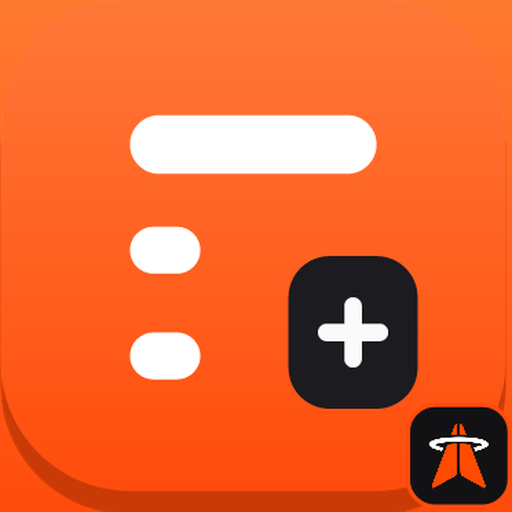
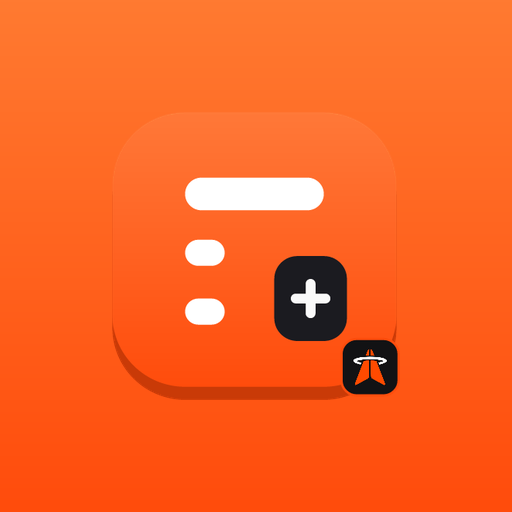
fix: centraliza icone com padding uniforme e protege marca Blessing

Changed region(s): [[0.2188, 0.5, 0.8438, 0.8125], [0.25, 0.2188, 0.75, 0.5625], [0.0, 0.75, 1.0, 1.0]]

diff --git a/index.html b/index.html
@@ -5,8 +5,8 @@
     <meta name="viewport" content="width=device-width, initial-scale=1.0" />
     <meta name="description" content="Calculadora de preços para Shopee, Mercado Livre, TikTok Shop e Amazon." />
     <link rel="shortcut icon" href="/icone.ico" type="image/x-icon" />
-    <link rel="icon" href="/calculator-icon-192.png?v=2" type="image/png" sizes="192x192" />
-    <link rel="apple-touch-icon" href="/apple-touch-icon.png?v=2" sizes="180x180" />
+    <link rel="icon" href="/calculator-icon-192.png?v=3" type="image/png" sizes="192x192" />
+    <link rel="apple-touch-icon" href="/apple-touch-icon.png?v=3" sizes="180x180" />
     <link rel="manifest" href="/manifest.webmanifest" />
     <meta name="theme-color" content="#ff4c0c" />
     <meta name="mobile-web-app-capable" content="yes" />
